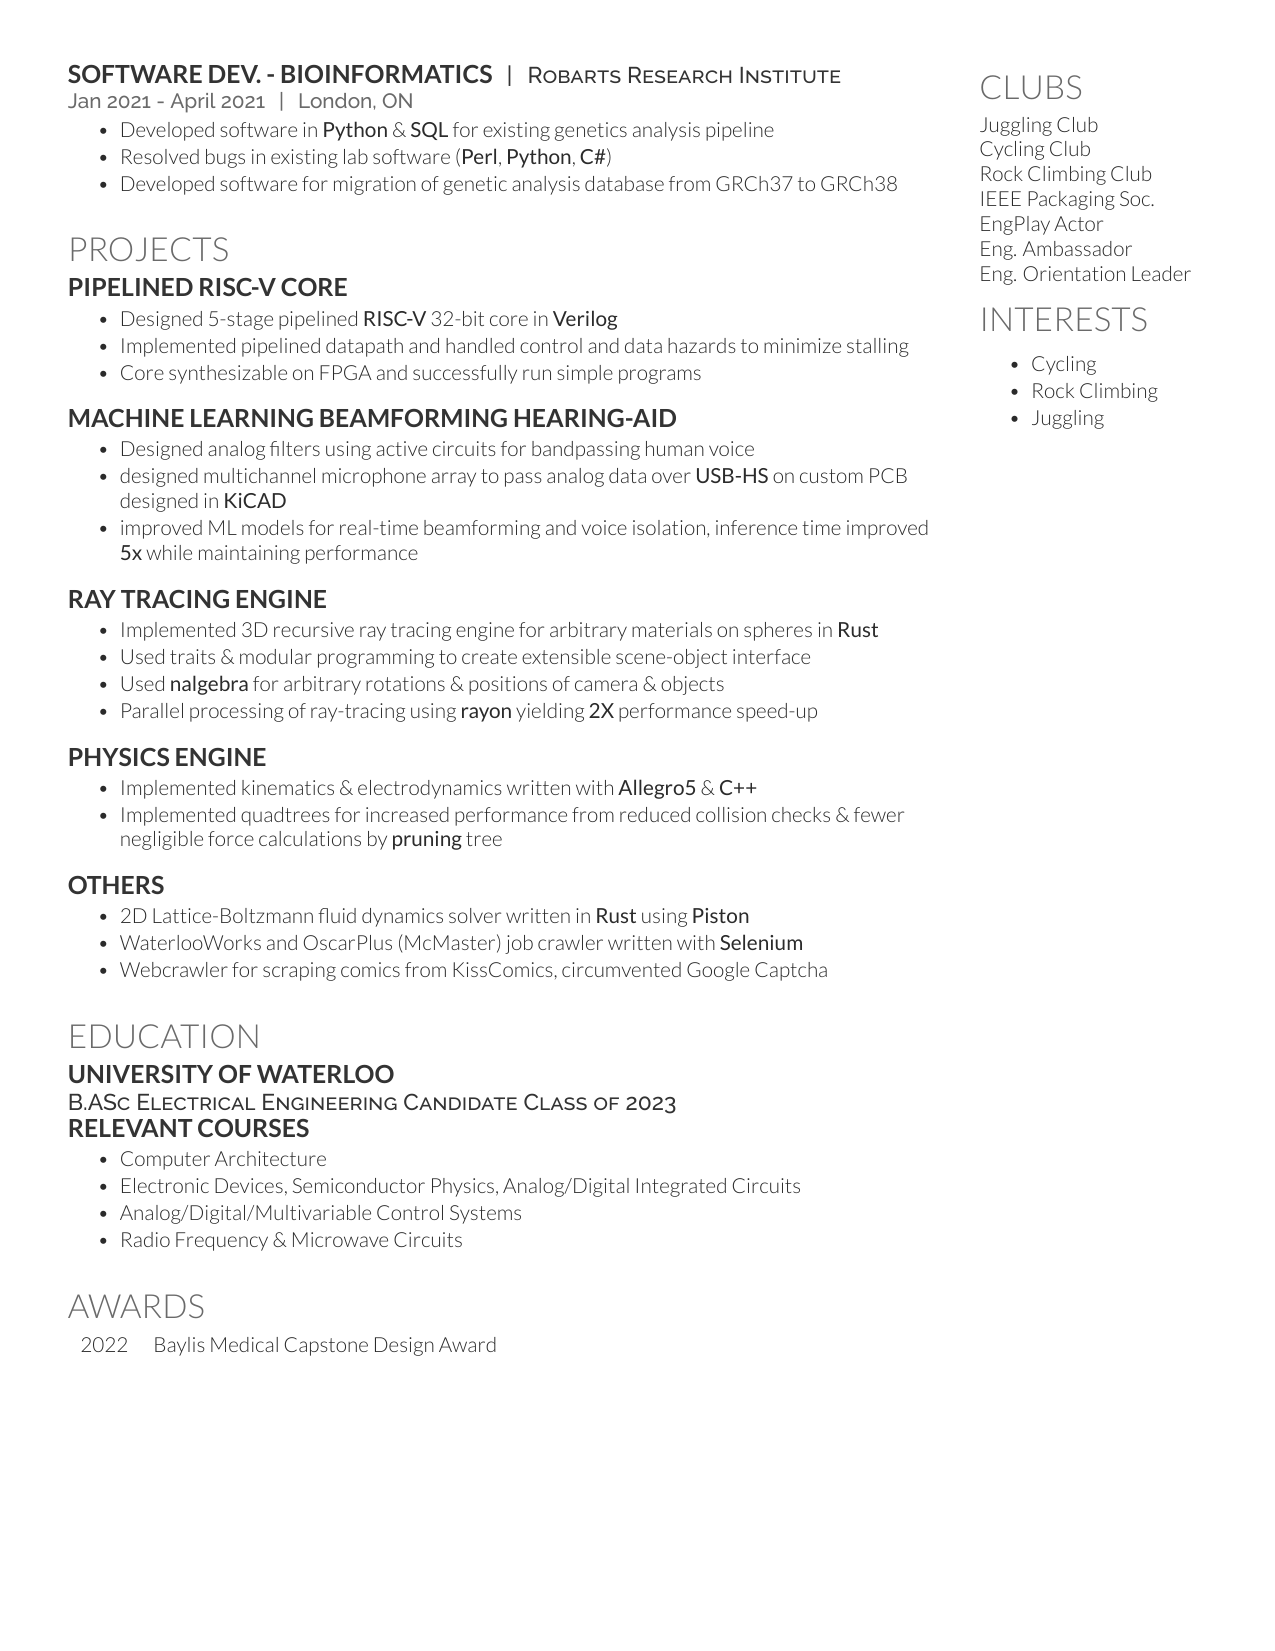
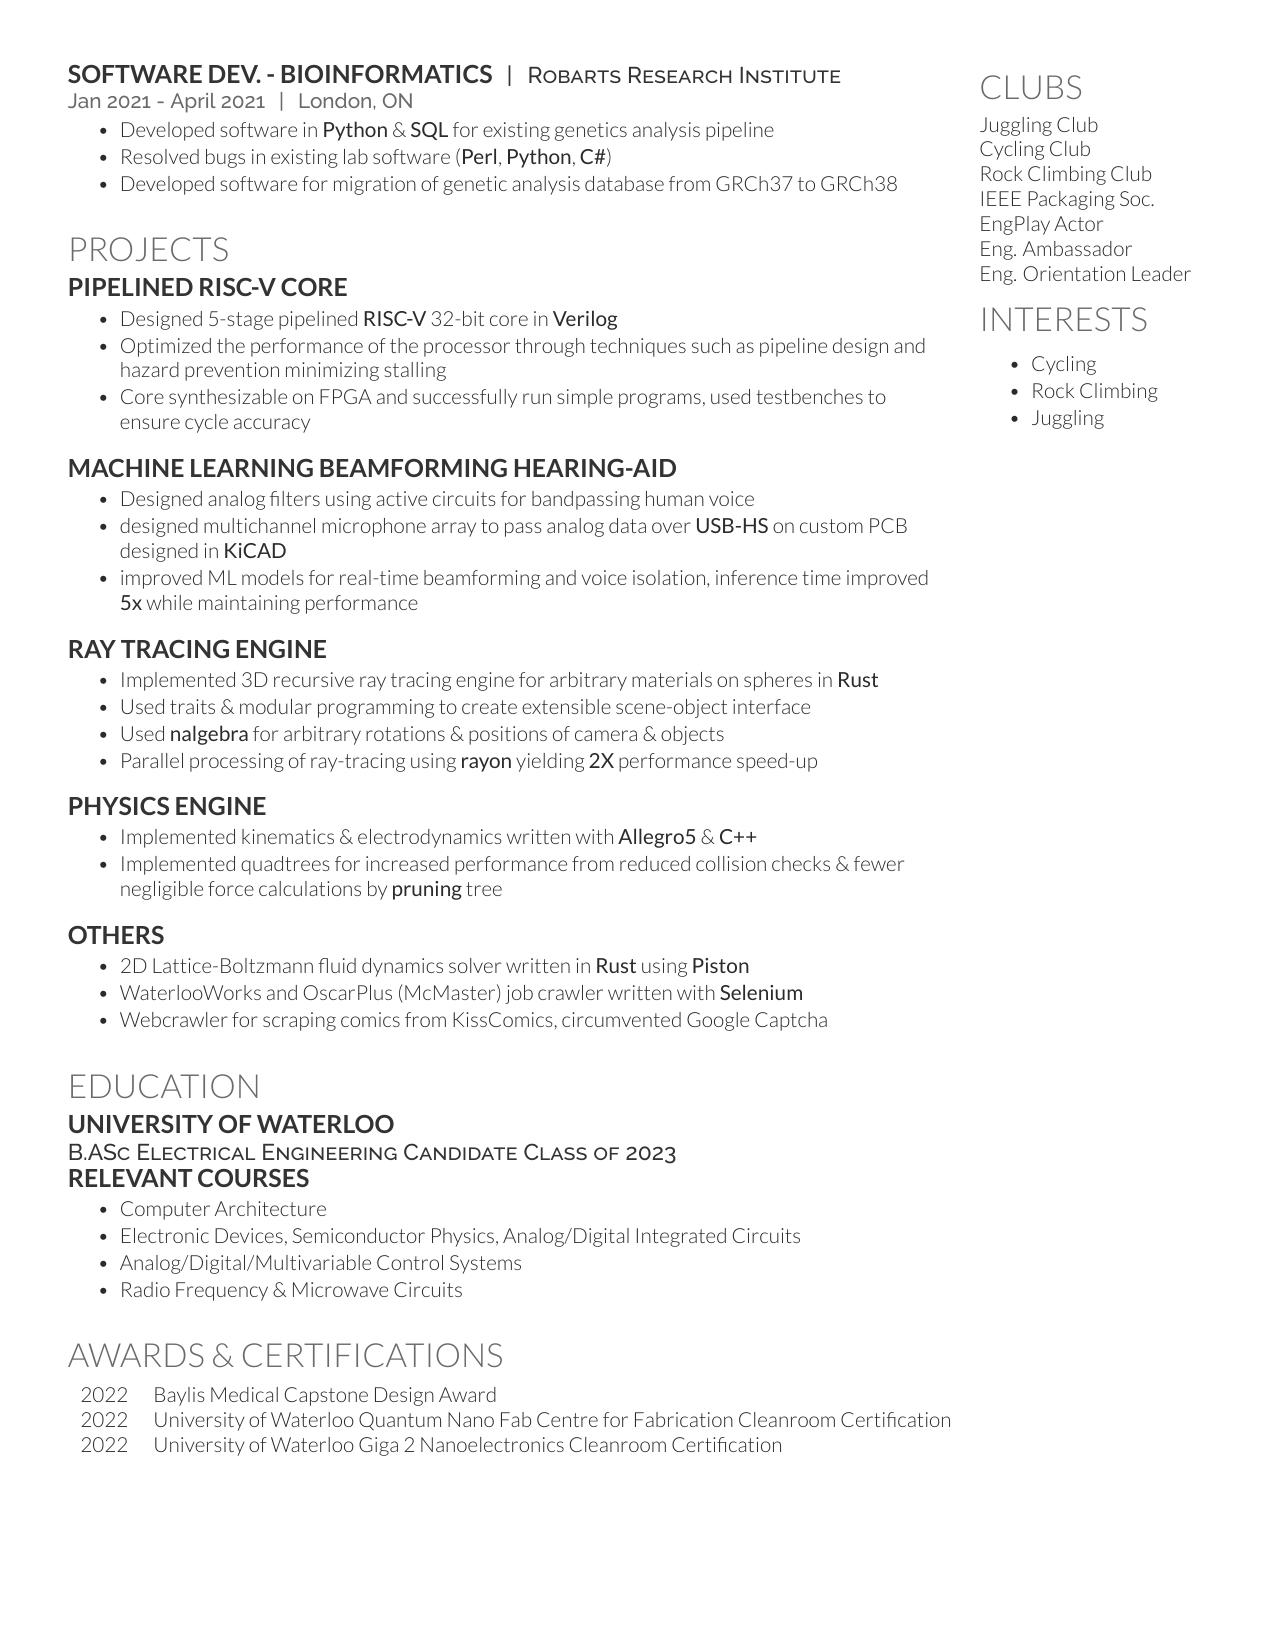
Updated Summary and some projects

diff --git a/Resume/Resume-Clean/chandan.tex b/Resume/Resume-Clean/chandan.tex
@@ -60,9 +60,9 @@
 		\item \textbf{Rust}
 				\begin{itemize}
 						\setlength\itemsep{-0.17em}
-						\item Piston
+						% \item Piston
 						\item nalgebra
-						\item rayon
+						\item Rayon
 				\end{itemize}
 		\item \textbf{Python}
 			\begin{itemize}
@@ -75,6 +75,7 @@
 				\item Selenium
 			\end{itemize}
 		\item \textbf{MATLAB}
+		\item \textbf{Go}
 		\item \textbf{SQL}
 		\item \textbf{Verilog}
 		\item \textbf{RISC-V}
@@ -109,7 +110,7 @@
 		\setlength\itemsep{-0.2em}
 		\item \textbf{Wire-bonder}
 		\item \textbf{Die-bonder}
-		\item \textbf{Plasma Cleaner/Asher}
+		\item \textbf{Plasma Cleaner \& Asher}
 		\item \textbf{Dicing Saw}
 		\item \textbf{HMDS Oven}
 		\item \textbf{Probe Station}
@@ -147,12 +148,15 @@
 \location{ }
 \vspace{\topsep} % Hacky fix for awkward extra vertical space
 \begin{tightemize}
-	\item Strong data engineering experience from leading projects at Robarts, MappedIn, \& OICR
-	\item Excellent data pipeline experience in \textbf{Python}, \textbf{SQL}, \& \textbf{Shell} at Robarts, MappedIn, \& OICR 
-	\item Understanding of \textbf{Verilog} \& \textbf{RISC-V} from coursework involving 
-	computer architecture \& hardware design
-	\item Strong electrical hardware design skills at device level fabrication experience and design with Cadence 
-	\item Circuit-board design experience from internship and projects using KiCAD
+	\item Multidisciplinary generalist electrical engineering skills specialist in software development at scale in data engineering with \textbf{Python} and performance critical development in \textbf{C++}
+	\item Experienced research assistant with expertise in  microfabrication, including developing research plans, layout designs, and hands-on lab-work
+	\item Strong electrical engineering foundation through coursework in computer architecture, RF devices, controls, device physics, and IC design
+	% \item Strong data engineering experience from leading projects at Robarts, MappedIn, \& OICR
+	% \item Excellent data pipeline experience in \textbf{Python}, \textbf{SQL}, \& \textbf{Shell} at Robarts, MappedIn, \& OICR 
+	% \item Understanding of \textbf{Verilog} \& \textbf{RISC-V} from coursework involving 
+	% computer architecture \& hardware design
+	% \item Strong electrical hardware design skills at device level fabrication experience and design with Cadence 
+	% \item Circuit-board design experience from internship and projects using KiCAD
 \end{tightemize}
 \sectionsep
 
@@ -168,7 +172,6 @@
 \begin{tightemize}
         \item Developed research plan for advanced packaging of $\mu$LEDs onto TFT backplanes
 		\item Developed indium electroplating setup, characterized using \textbf{SEM} and \textbf{EDX}, achieved reproducible high aspect ratio depositions with good electrical and mechanical properties 
-		% \item ** Developed other characterization setups for LEDs as necessary with Fusion360
 		\item Designed custom PCBs in \textbf{KiCAD} for driving small $\mu$LED active/passive matrix displays using \textbf{STM32} microcontroller and accompanying analog circuitry
 		\item Validated flip-chip diebonding results with thermal simulations in \textbf{MATLAB}
 		\item Created new layouts to improve mechanical and electrical performance 
@@ -259,8 +262,8 @@
 \location{ }
 \begin{tightemize}
 	\item Designed 5-stage pipelined \textbf{RISC-V} 32-bit core in \textbf{Verilog}
-	\item Implemented pipelined datapath and handled control and data hazards to minimize stalling
-	\item Core synthesizable on FPGA and successfully run simple programs 
+	\item Optimized the performance of the processor through techniques such as pipeline design and hazard prevention minimizing stalling 
+	\item Core synthesizable on FPGA and successfully run simple programs, used testbenches to ensure cycle accuracy 
 \end{tightemize}
 \sectionsep
 
@@ -334,9 +337,11 @@
 % %     AWARDS
 % %%%%%%%%%%%%%%%%%%%%%%%%%%%%%%%%%%%%%%
 
-\section{Awards}
+\section{Awards \& Certifications}
 \begin{tabular}{rll}
-2022		&	Baylis Medical Capstone Design Award\
+	2022		&	Baylis Medical Capstone Design Award\\
+	2022		&	University of Waterloo Quantum Nano Fab Centre for Fabrication Cleanroom Certification \\
+	2022		&	University of Waterloo Giga 2 Nanoelectronics Cleanroom Certification \\
 % 2018		&	Co-op Award for Outstanding Achievement\\
 % 2018		&	University of Toronto National Biology Competition 78th in Canada\\
 \end{tabular}
